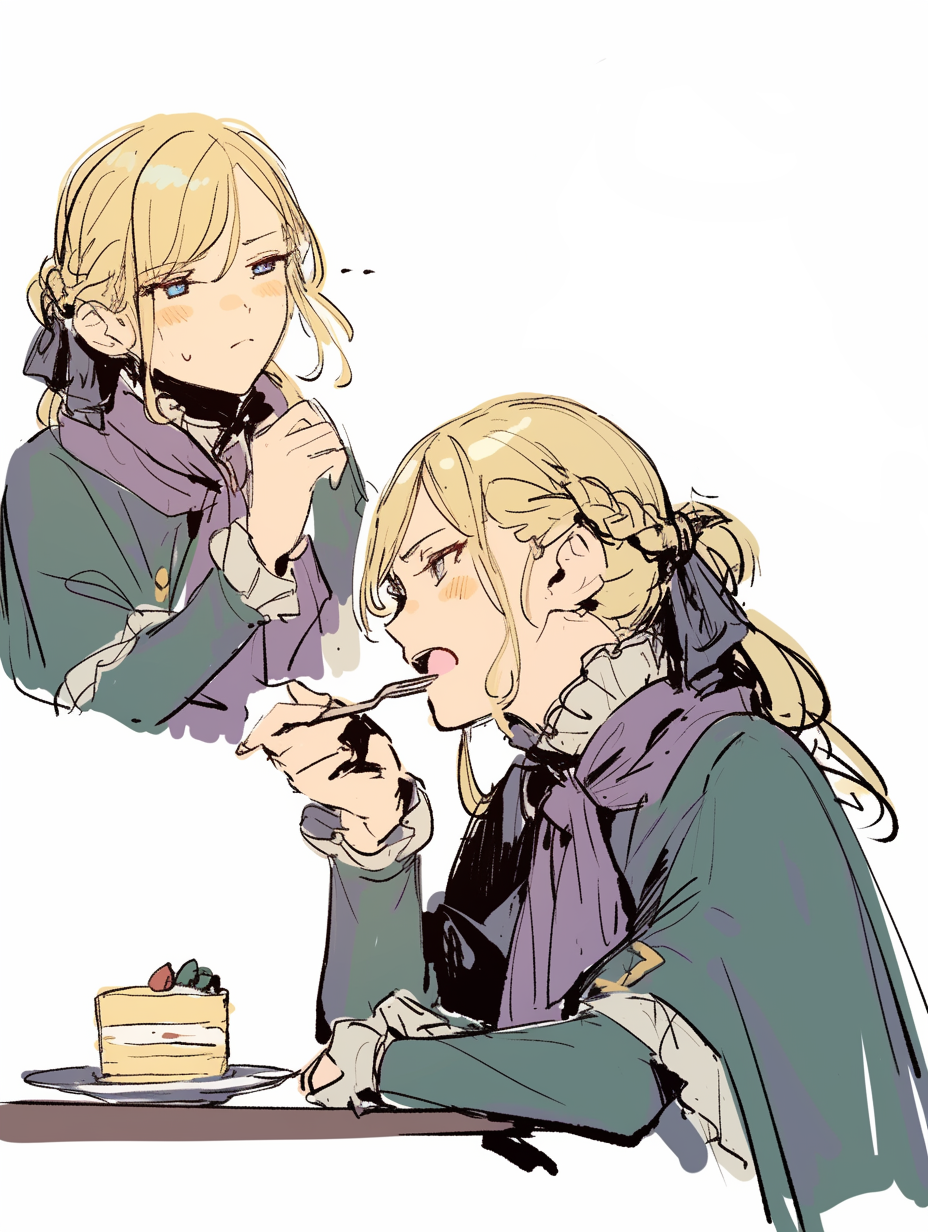
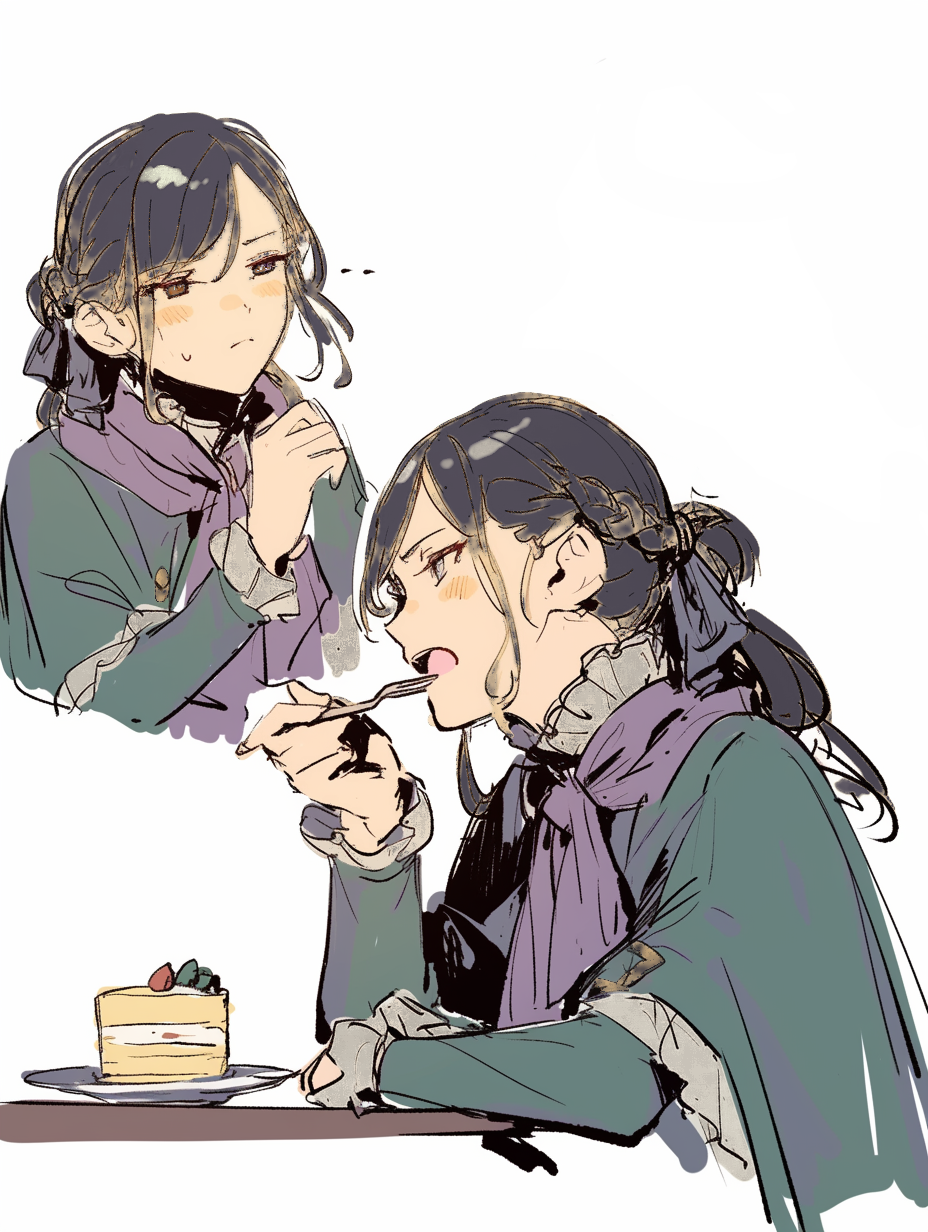
Give Trang black hair and brown eyes
- Recolor the walking sprite (hair and eye colors swapped exactly).
- Recolor hair and eyes in the cake success and failure illustrations,
  keeping the cake, scarf, and skin unchanged.
- Redraw the pizza end screens with the new sprite.
- Version asset URLs in game.js so browsers load the new images.

diff --git a/baking/static/game.js b/baking/static/game.js
@@ -20,6 +20,9 @@ const HEIGHT = MAP_HEIGHT * TILE_SIZE * SCALE;
 const WALKABLE_TILES = [0, 98, 101, 100, 99];
 const WALKABLE_BEHIND_TILES = [110, 111, 112, 136, 137, 138];
 const START_TILE = { x: 4, y: 5 };
+// Bump when images change so browsers fetch the new files instead of cached ones.
+const ASSET_VERSION = 2;
+const asset = path => `static/assets/${path}?v=${ASSET_VERSION}`;
 
 // Per-recipe kitchen setup. `actions` maps each environment action to the
 // walk Trang takes for it; `next` continues with the following action.
@@ -124,20 +127,20 @@ function typeWriter(text, elementId, speed = 10) {
 }
 
 function preload() {
-  this.load.image('tiles', 'static/assets/kitchen_tileset.png');
-  this.load.tilemapCSV('kitchen-map', 'static/assets/kitchen_tilemap.csv');
-  this.load.spritesheet('char', 'static/assets/char_spritesheet.png', { frameWidth: 32, frameHeight: 32 });
+  this.load.image('tiles', asset('kitchen_tileset.png'));
+  this.load.tilemapCSV('kitchen-map', asset('kitchen_tilemap.csv'));
+  this.load.spritesheet('char', asset('char_spritesheet.png'), { frameWidth: 32, frameHeight: 32 });
   
   const itemImages = new Set();
   Object.values(RECIPES).forEach(recipe => Object.values(recipe.itemMap).forEach(item => {
     if (item !== 'oven' && item !== 'fridge') itemImages.add(item);
   }));
-  itemImages.forEach(item => this.load.image(item, `static/assets/${item}.png`));
-  this.load.tilemapCSV('item-positions-cake', 'static/assets/item_positions.csv');
-  this.load.tilemapCSV('item-positions-pizza', 'static/assets/pizza_item_positions.csv');
+  itemImages.forEach(item => this.load.image(item, asset(`${item}.png`)));
+  this.load.tilemapCSV('item-positions-cake', asset('item_positions.csv'));
+  this.load.tilemapCSV('item-positions-pizza', asset('pizza_item_positions.csv'));
   Object.keys(RECIPES).forEach(recipe => {
-    this.load.image(`success_${recipe}`, `static/assets/success_${recipe}.png`);
-    this.load.image(`bad_${recipe}`, `static/assets/bad_${recipe}.png`);
+    this.load.image(`success_${recipe}`, asset(`success_${recipe}.png`));
+    this.load.image(`bad_${recipe}`, asset(`bad_${recipe}.png`));
   });
 }
 

diff --git a/baking/templates/index.html b/baking/templates/index.html
@@ -513,6 +513,6 @@
         <span>Pixel art drawn in code</span>
     </footer>
 
-    <script src="{{ url_for('static', filename='game.js') }}?v=9"></script>
+    <script src="{{ url_for('static', filename='game.js') }}?v=10"></script>
 </body>
 </html>
